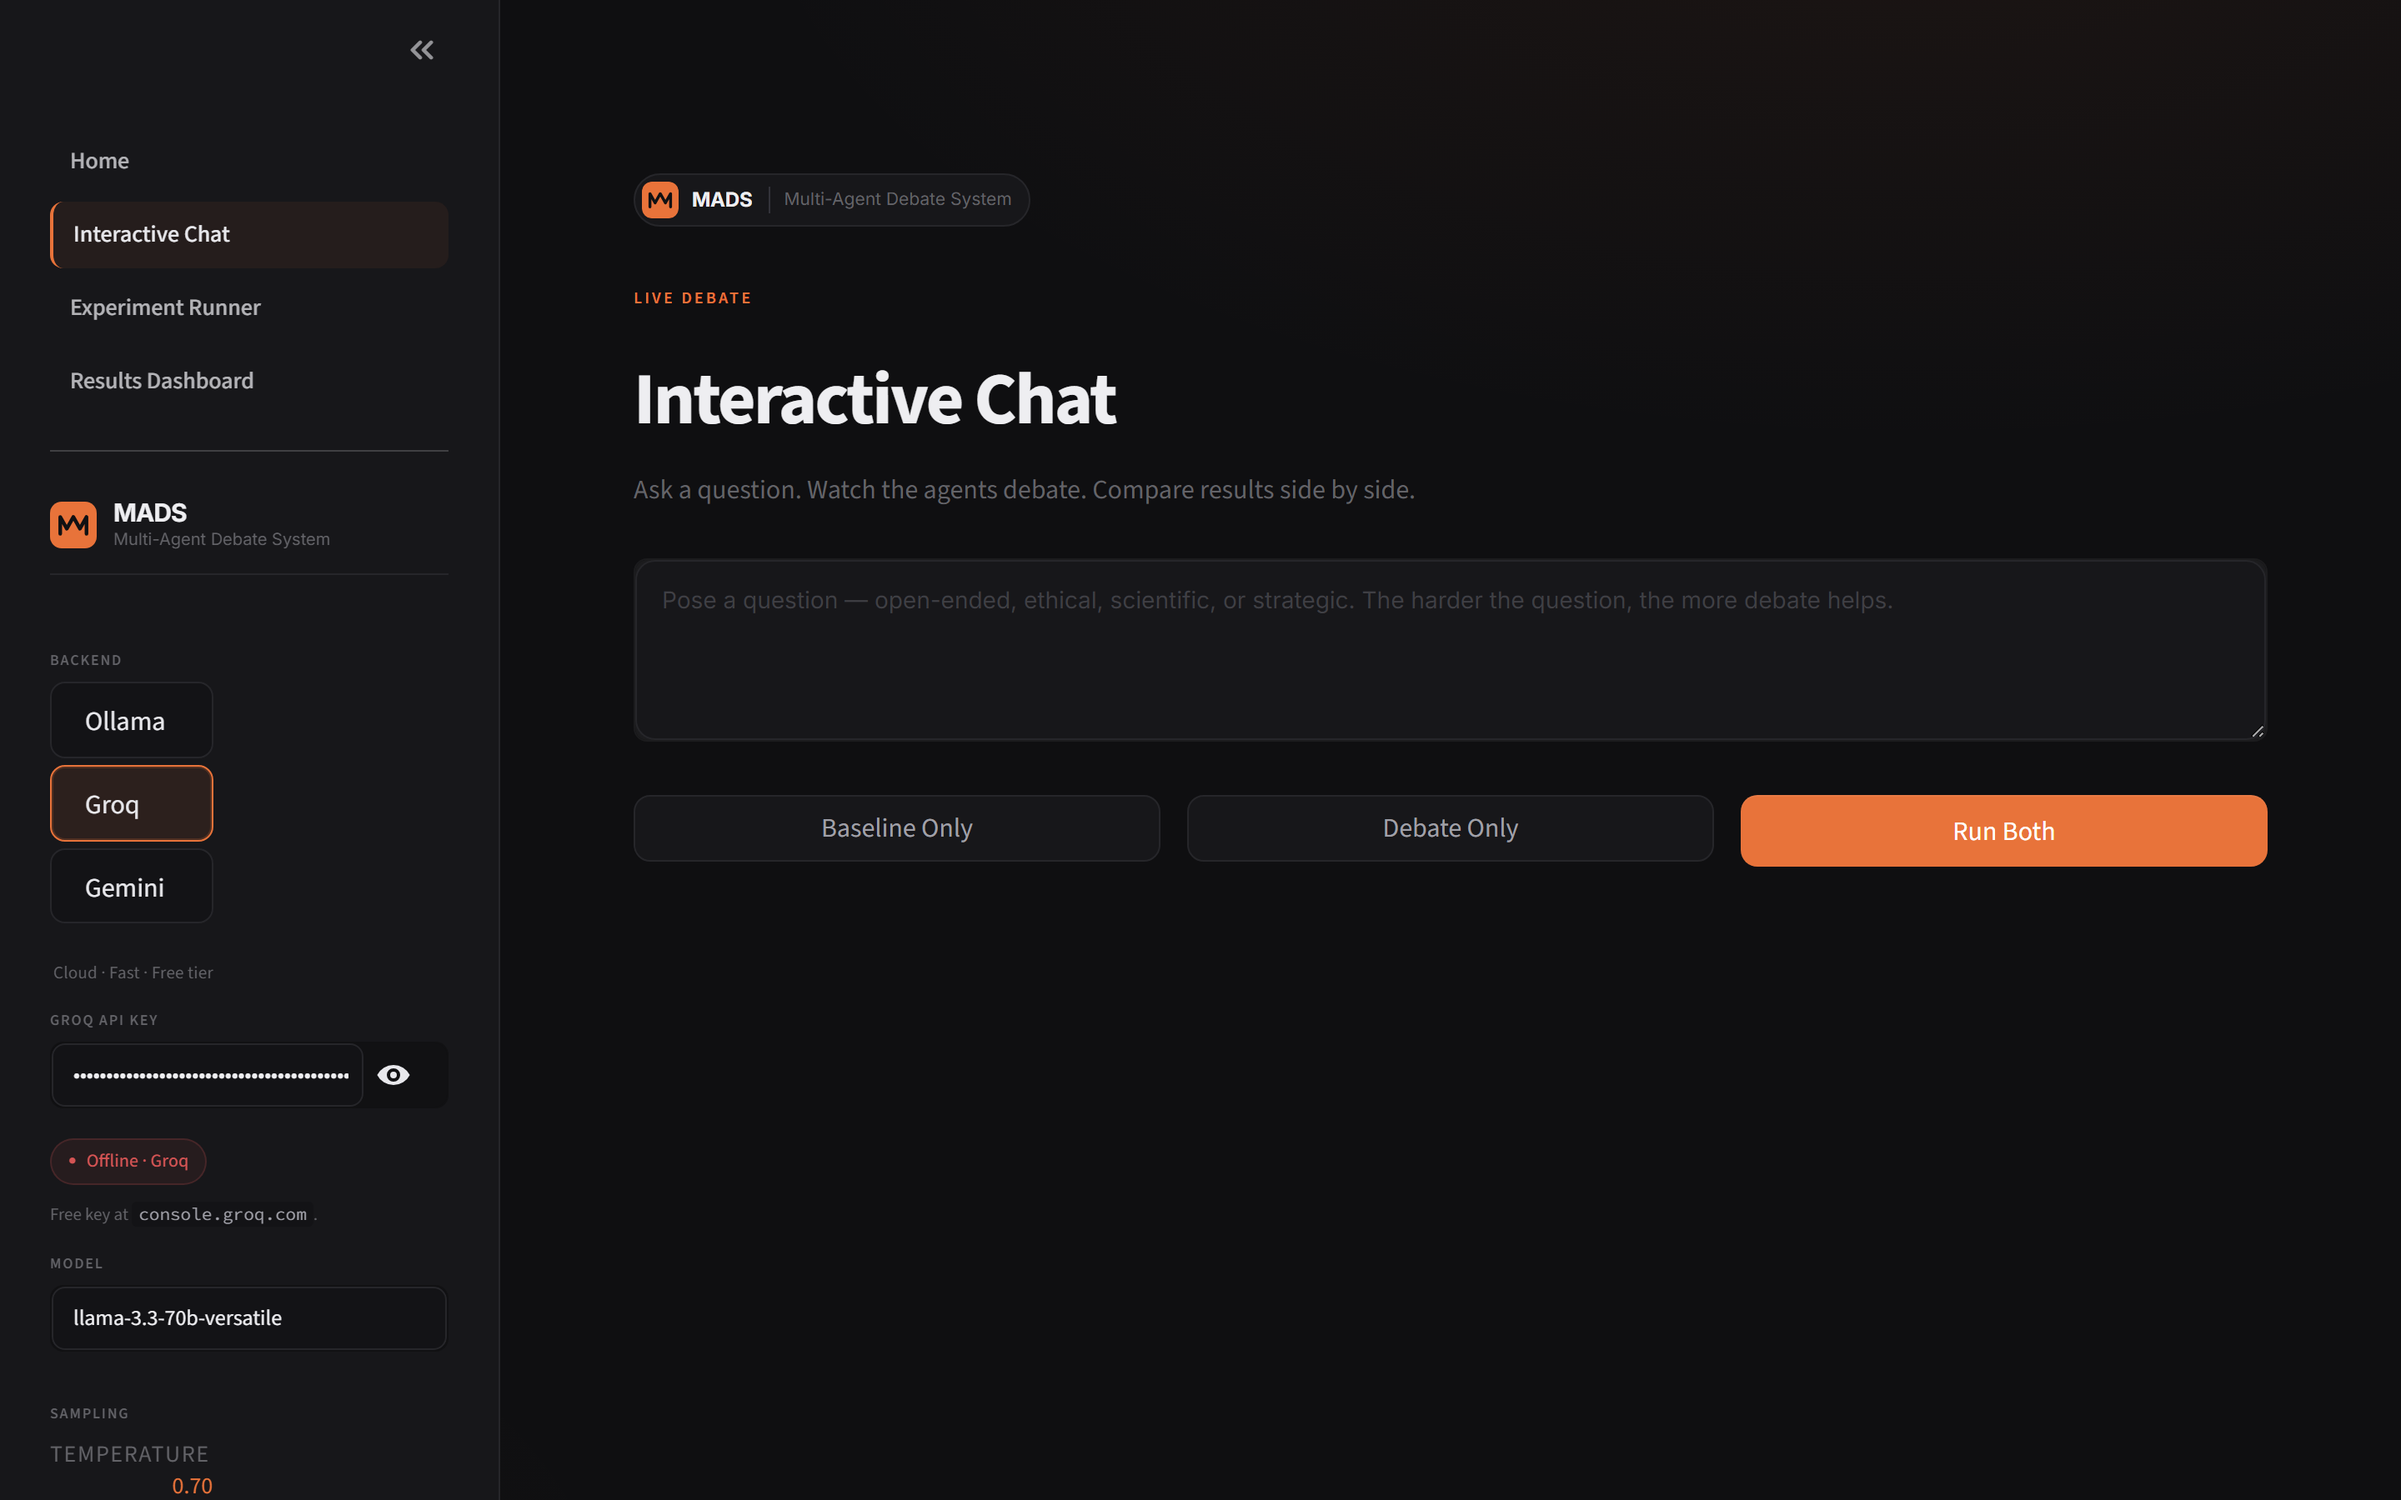
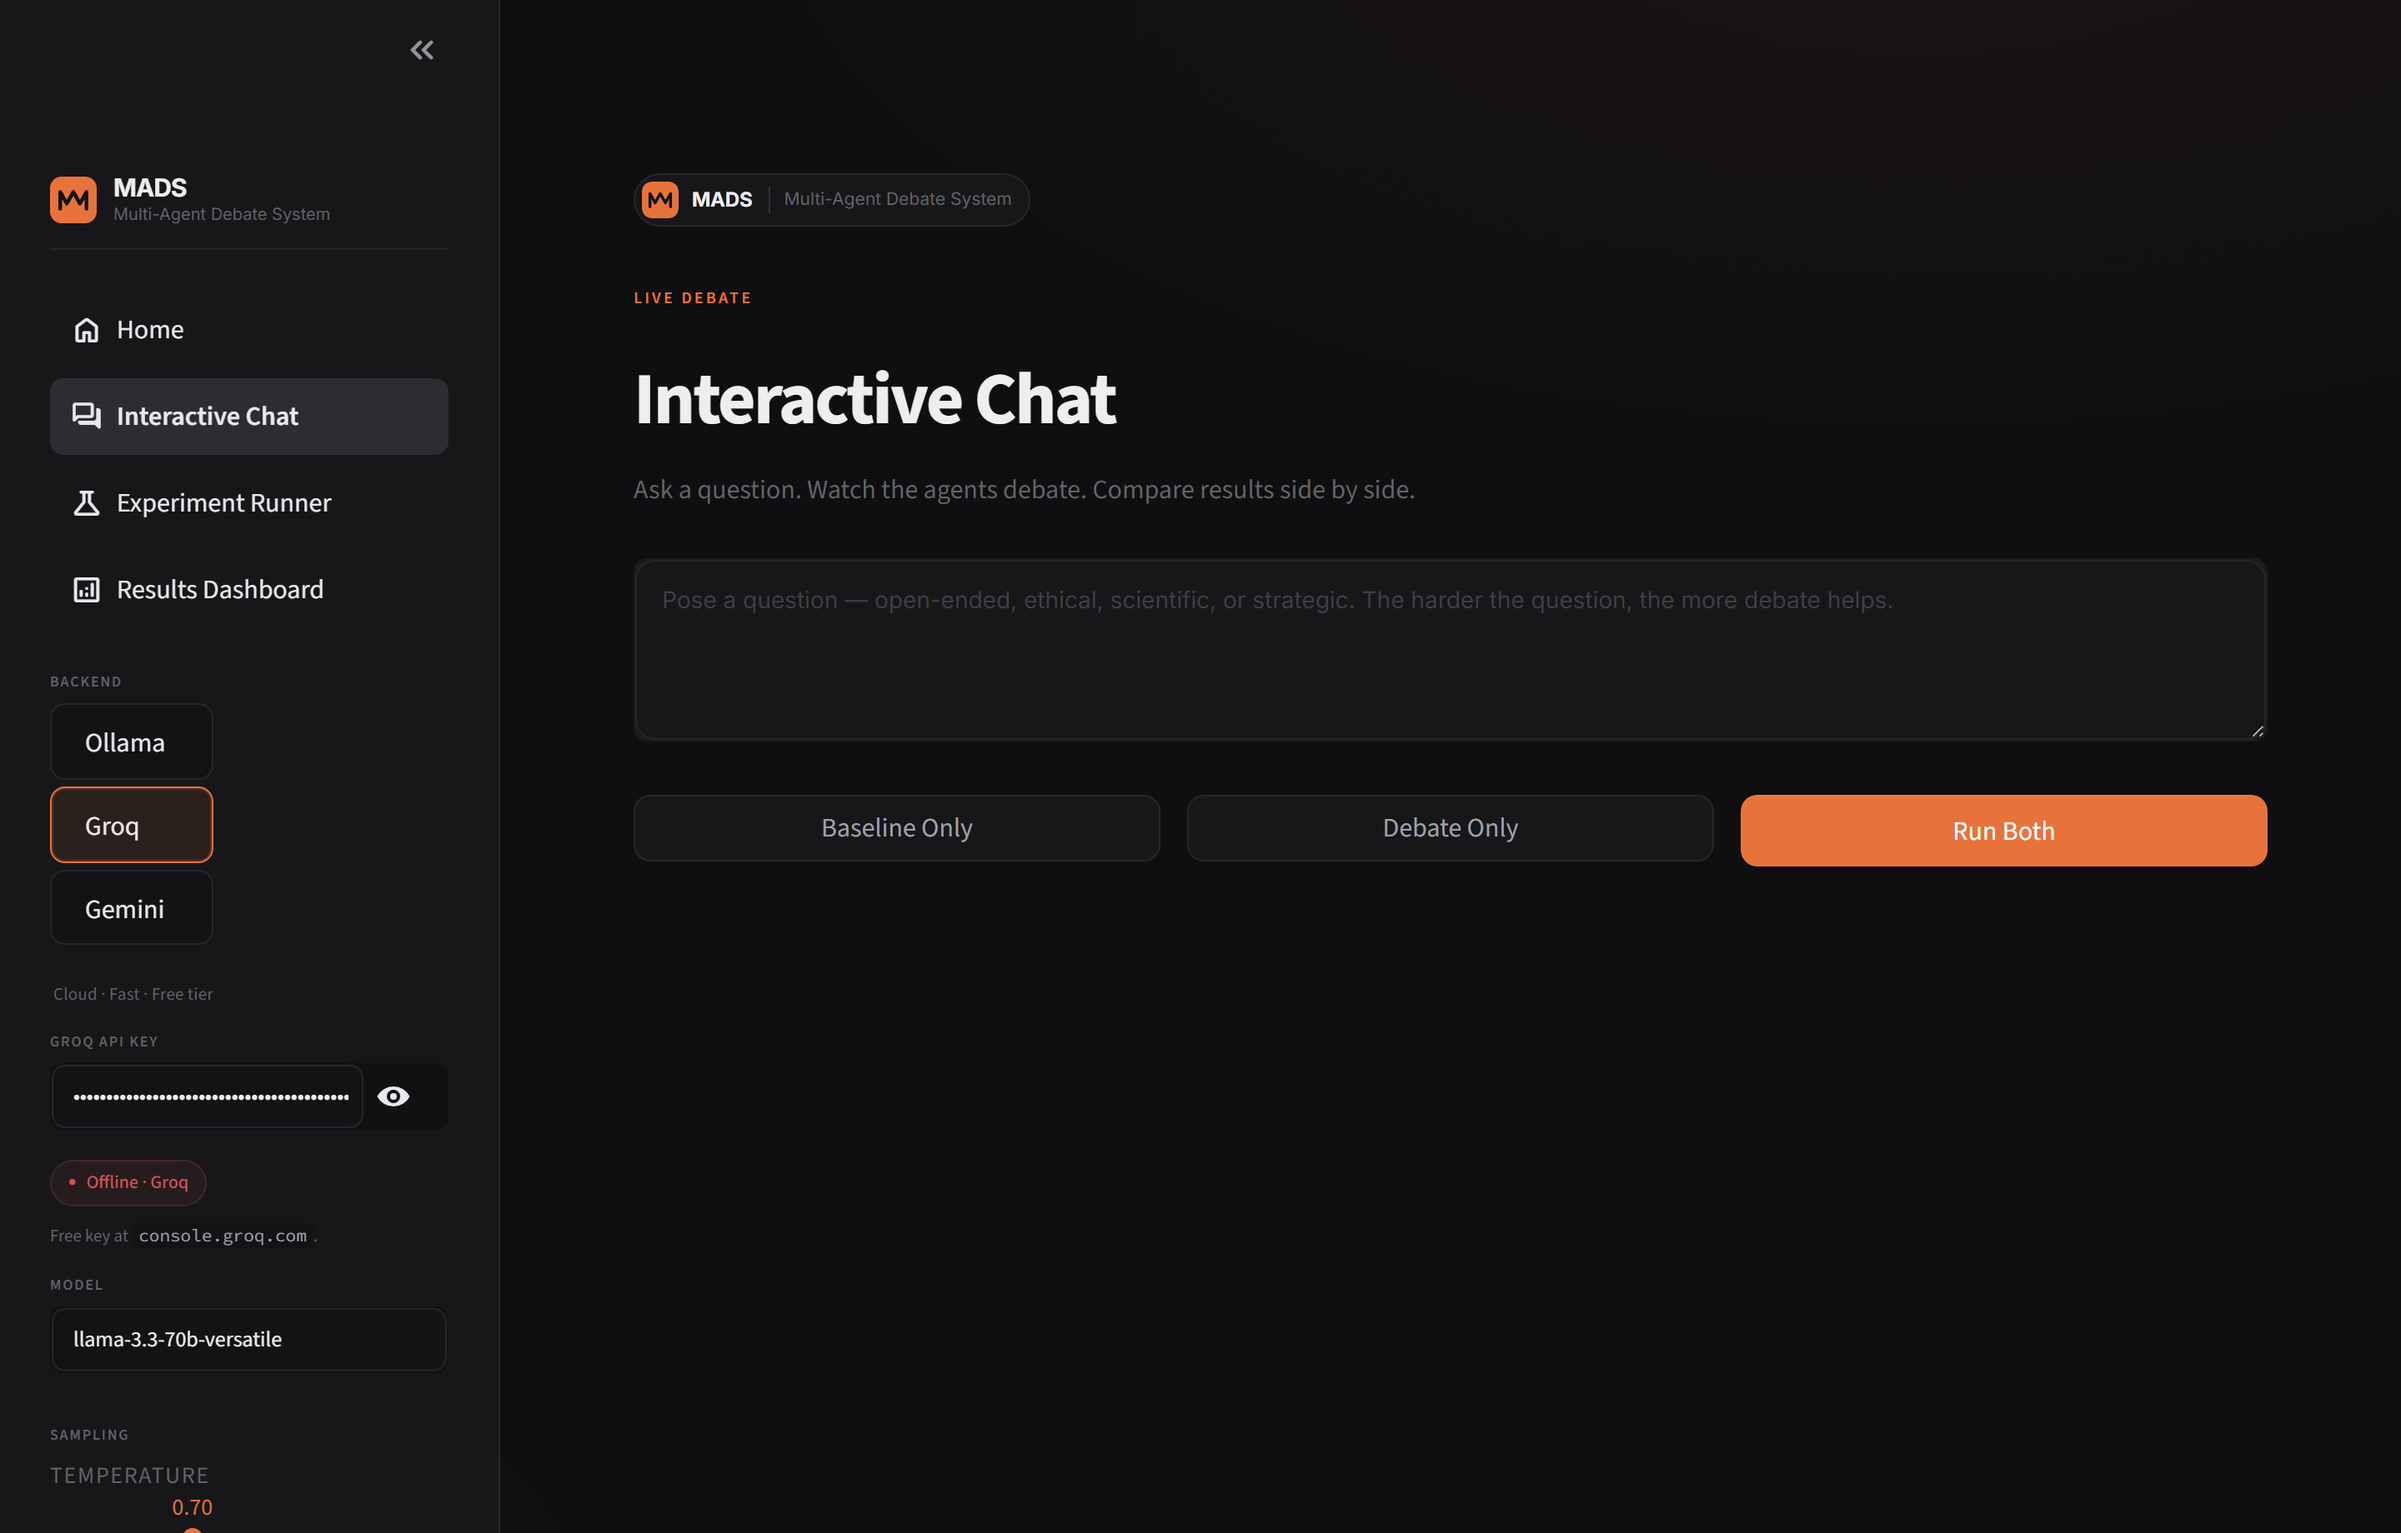
Custom sidebar nav with brand on top, qwen3.5 as Ollama default
Two requests from the user:

* Logo at the top of the sidebar — Streamlit's auto-discovered nav
  always renders first, pushing our brand below the page list. Hide
  the auto nav (`stSidebarNav`) via CSS and render four explicit
  `st.page_link`s under the brand, with material icons (home,
  forum, science, analytics) and our accent highlight on the active
  page.
* Newer Qwen — qwen3.6 is only released in 27B+ sizes (17 GB) so it
  won't run on a CPU laptop. qwen3.5 has a proper 4B variant that
  fits the same scale as the previous llama3.2:latest. Pulled
  qwen3.5:4b locally and set it as DEFAULT_MODEL.

diff --git a/core/theme.py b/core/theme.py
@@ -517,17 +517,35 @@ section[data-testid="stSidebar"] .stRadio > div > label > div:first-child {{
     display: none;
 }}
 
-/* Sidebar nav links */
-section[data-testid="stSidebar"] a[data-testid="stSidebarNavLink"] {{
-    border-radius: 8px; padding: 6px 12px; margin: 1px 0;
-    font-size: 13px; font-weight: 500; color: {C["text_2"]};
+/* Hide Streamlit's auto-discovered sidebar nav (built from filenames).
+   We render our own with `st.page_link` below the brand so the layout
+   order is: brand → links → backend → … */
+section[data-testid="stSidebar"] [data-testid="stSidebarNav"],
+section[data-testid="stSidebar"] [data-testid="stSidebarNavSeparator"] {{
+    display: none !important;
+}}
+
+/* Style the custom st.page_link entries to feel like real nav. */
+section[data-testid="stSidebar"] [data-testid="stPageLink-NavLink"],
+section[data-testid="stSidebar"] a[data-testid="stPageLink"] {{
+    border-radius: 8px;
+    padding: 7px 12px !important;
+    margin: 1px 0;
+    font-size: 13px !important;
+    font-weight: 500 !important;
+    color: {C["text_2"]} !important;
+    text-decoration: none !important;
     transition: all 0.15s;
 }}
-section[data-testid="stSidebar"] a[data-testid="stSidebarNavLink"]:hover {{
-    background: {C["bg_hover"]}; color: {C["text_1"]};
+section[data-testid="stSidebar"] [data-testid="stPageLink-NavLink"]:hover,
+section[data-testid="stSidebar"] a[data-testid="stPageLink"]:hover {{
+    background: {C["bg_hover"]} !important;
+    color: {C["text_1"]} !important;
 }}
-section[data-testid="stSidebar"] a[data-testid="stSidebarNavLink"][aria-current="page"] {{
-    background: {C["accent"]}12; color: {C["accent"]};
+section[data-testid="stSidebar"] [data-testid="stPageLink-NavLink"][aria-current="page"],
+section[data-testid="stSidebar"] a[data-testid="stPageLink"][aria-current="page"] {{
+    background: {C["accent"]}14 !important;
+    color: {C["accent"]} !important;
     border-left: 2px solid {C["accent"]};
 }}
 

diff --git a/core/sidebar.py b/core/sidebar.py
@@ -72,6 +72,27 @@ def render_sidebar() -> dict:
     with st.sidebar:
         sidebar_brand()
 
+        # --- Custom navigation (replaces Streamlit's auto sidebar nav) --
+        # The auto nav reads filenames ("app", "Interactive Chat", ...).
+        # We hide it via CSS and render explicit page links here so the
+        # brand stays at the very top and labels are under our control.
+        st.page_link("Home.py", label="Home", icon=":material/home:")
+        st.page_link(
+            "pages/1_Interactive_Chat.py",
+            label="Interactive Chat",
+            icon=":material/forum:",
+        )
+        st.page_link(
+            "pages/2_Experiment_Runner.py",
+            label="Experiment Runner",
+            icon=":material/science:",
+        )
+        st.page_link(
+            "pages/3_Results_Dashboard.py",
+            label="Results Dashboard",
+            icon=":material/analytics:",
+        )
+
         # --- Backend (vertical buttons via radio with custom CSS) -------
         sidebar_label("Backend")
         backend_id = st.radio(

diff --git a/core/config.py b/core/config.py
@@ -45,8 +45,11 @@ def _load_secret(name: str) -> str:
 # Ollama (local backend)
 # ---------------------------------------------------------------------------
 OLLAMA_BASE_URL = os.environ.get("OLLAMA_BASE_URL", "http://localhost:11434")
-DEFAULT_MODEL = "llama3.2"
-# Smaller fallback that runs comfortably on CPU-only laptops.
+DEFAULT_MODEL = "qwen3.5:4b"
+# Smaller fallback that runs comfortably on CPU-only laptops. qwen3.5
+# leads the open-weight 4B class on reasoning benchmarks as of late
+# 2025 and supports thinking-mode for free; llama3.2:1b stays as the
+# absolute-minimum option for tight RAM budgets.
 OLLAMA_FAST_MODEL = "llama3.2:1b"
 
 # ---------------------------------------------------------------------------
